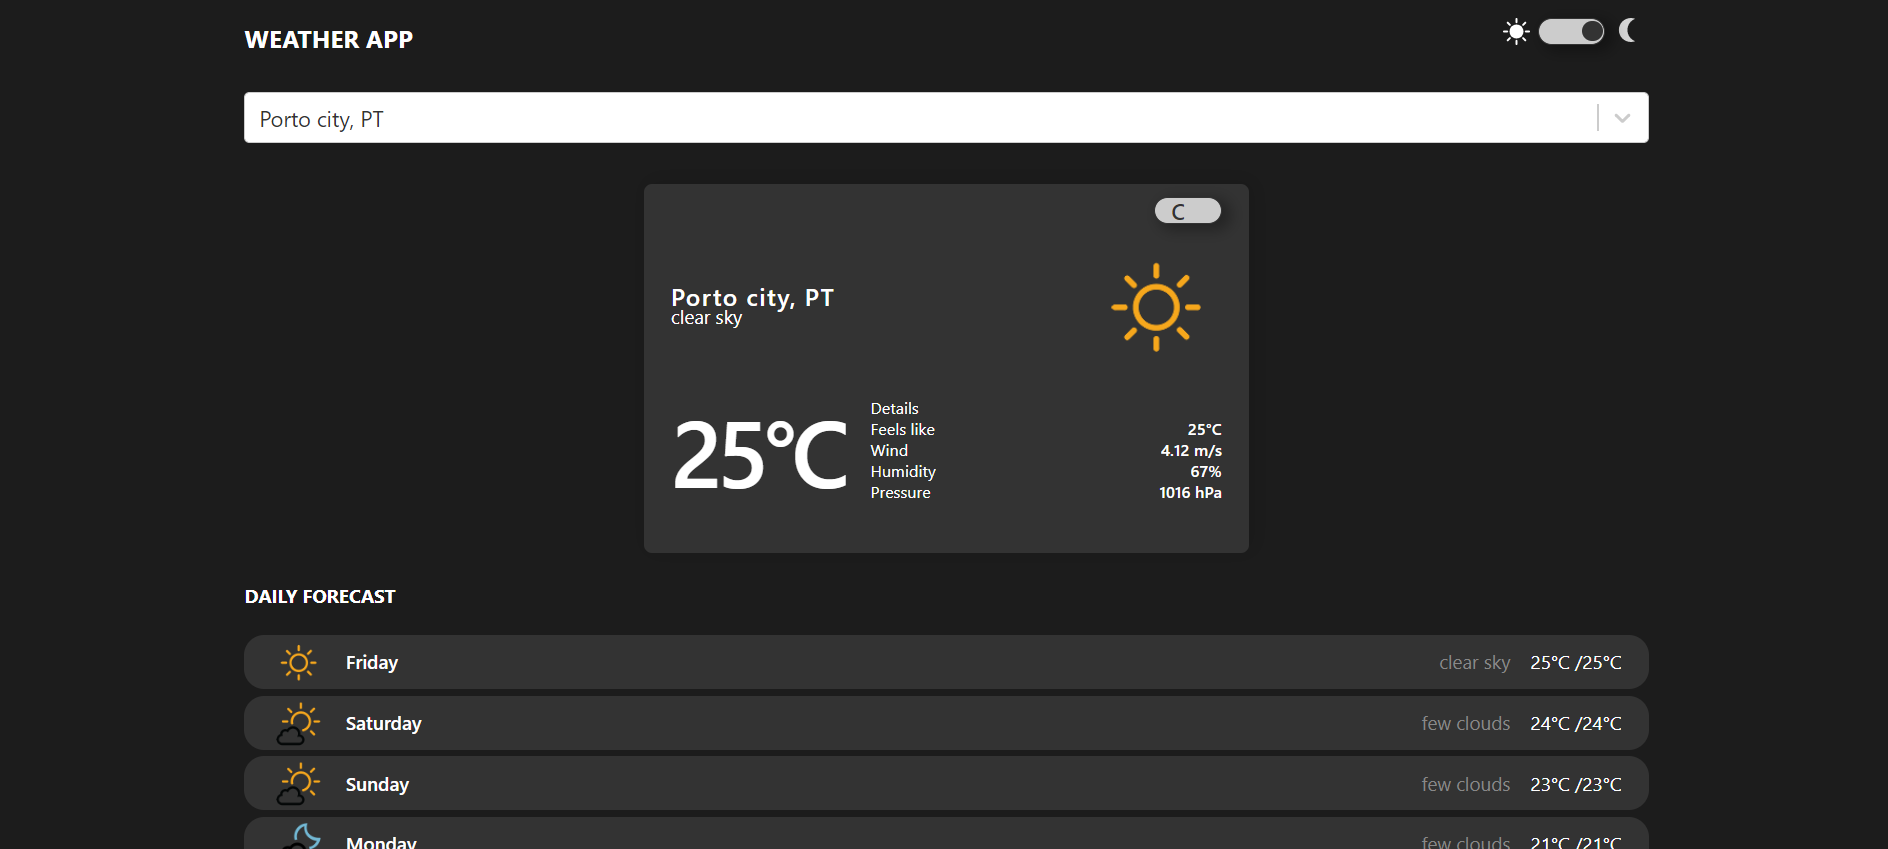
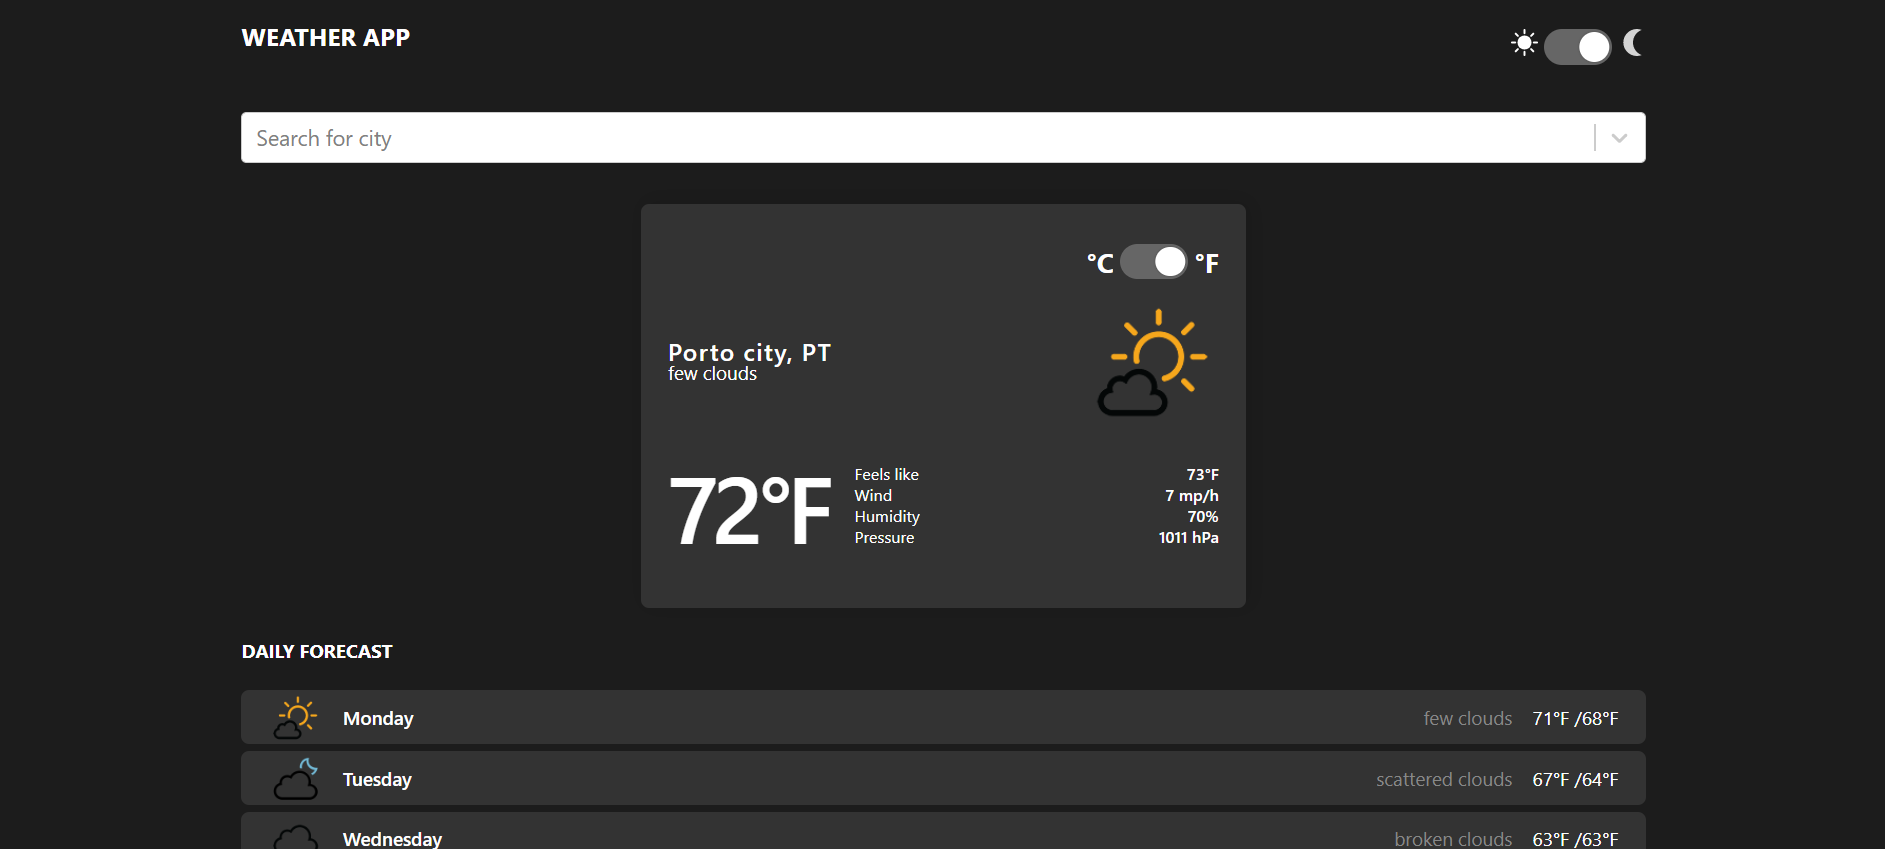
Updating readme

diff --git a/README.md b/README.md
@@ -10,13 +10,49 @@ Application to select cities and display temperature data for the current day an
 
 - [x] City search with autocomplete
 - [x] Display of temperature data for the current day
-- [x] Convert current day temperature from Celsius to Fahrenheit
+- [x] Switch temperature conversion between Celsius and Fahrenheit for current day and forecast
 - [x] Dark theme switcher
 - [x] Temperature data forecast for the next 7 days
 
 ### Component  Diagram
 
 ![component diagram](https://raw.githubusercontent.com/dropecosta/weather-application/master/src/assets/diagram.png)
+
+APP comonent:
+- Application entrypoint;
+- Get latitude and longitude from Search component;
+- Get weather information from Openweather API;
+- Get forecast information from Openweather API;
+- Send data to child components;
+- Show loading animation before information data is requested;
+
+Header component:
+- Set dark theme active/inactive;
+
+Search component:
+- Get latitude and longitude from GeoDB API;
+- Create object to return coordinates;
+- Send latitude, longitude and label to App component;
+- Render Search component;
+- Show Autocomplete dropdown list with cities that mach with search term;
+
+Current Weather Component:
+- Receive weather information of chosen city in Celcius and Farenheith from App component;
+- Convert values and units between Celcius and Farenheith;
+
+Forecast component:
+- Receive forecast data of chosen city to next seven days in Celcius and Farenheith from App component;
+ -Change values units when click on a ToggleSwitch component;
+
+ToggleSwitch component:
+Switch position with state values;
+Dispatch action to component whei it changes;
+Render switch component;
+
+Theme component:
+Switch position with state values;
+Change background switching normal/dark theme;
+Render switch component;
 
 ### Available Scripts
 
